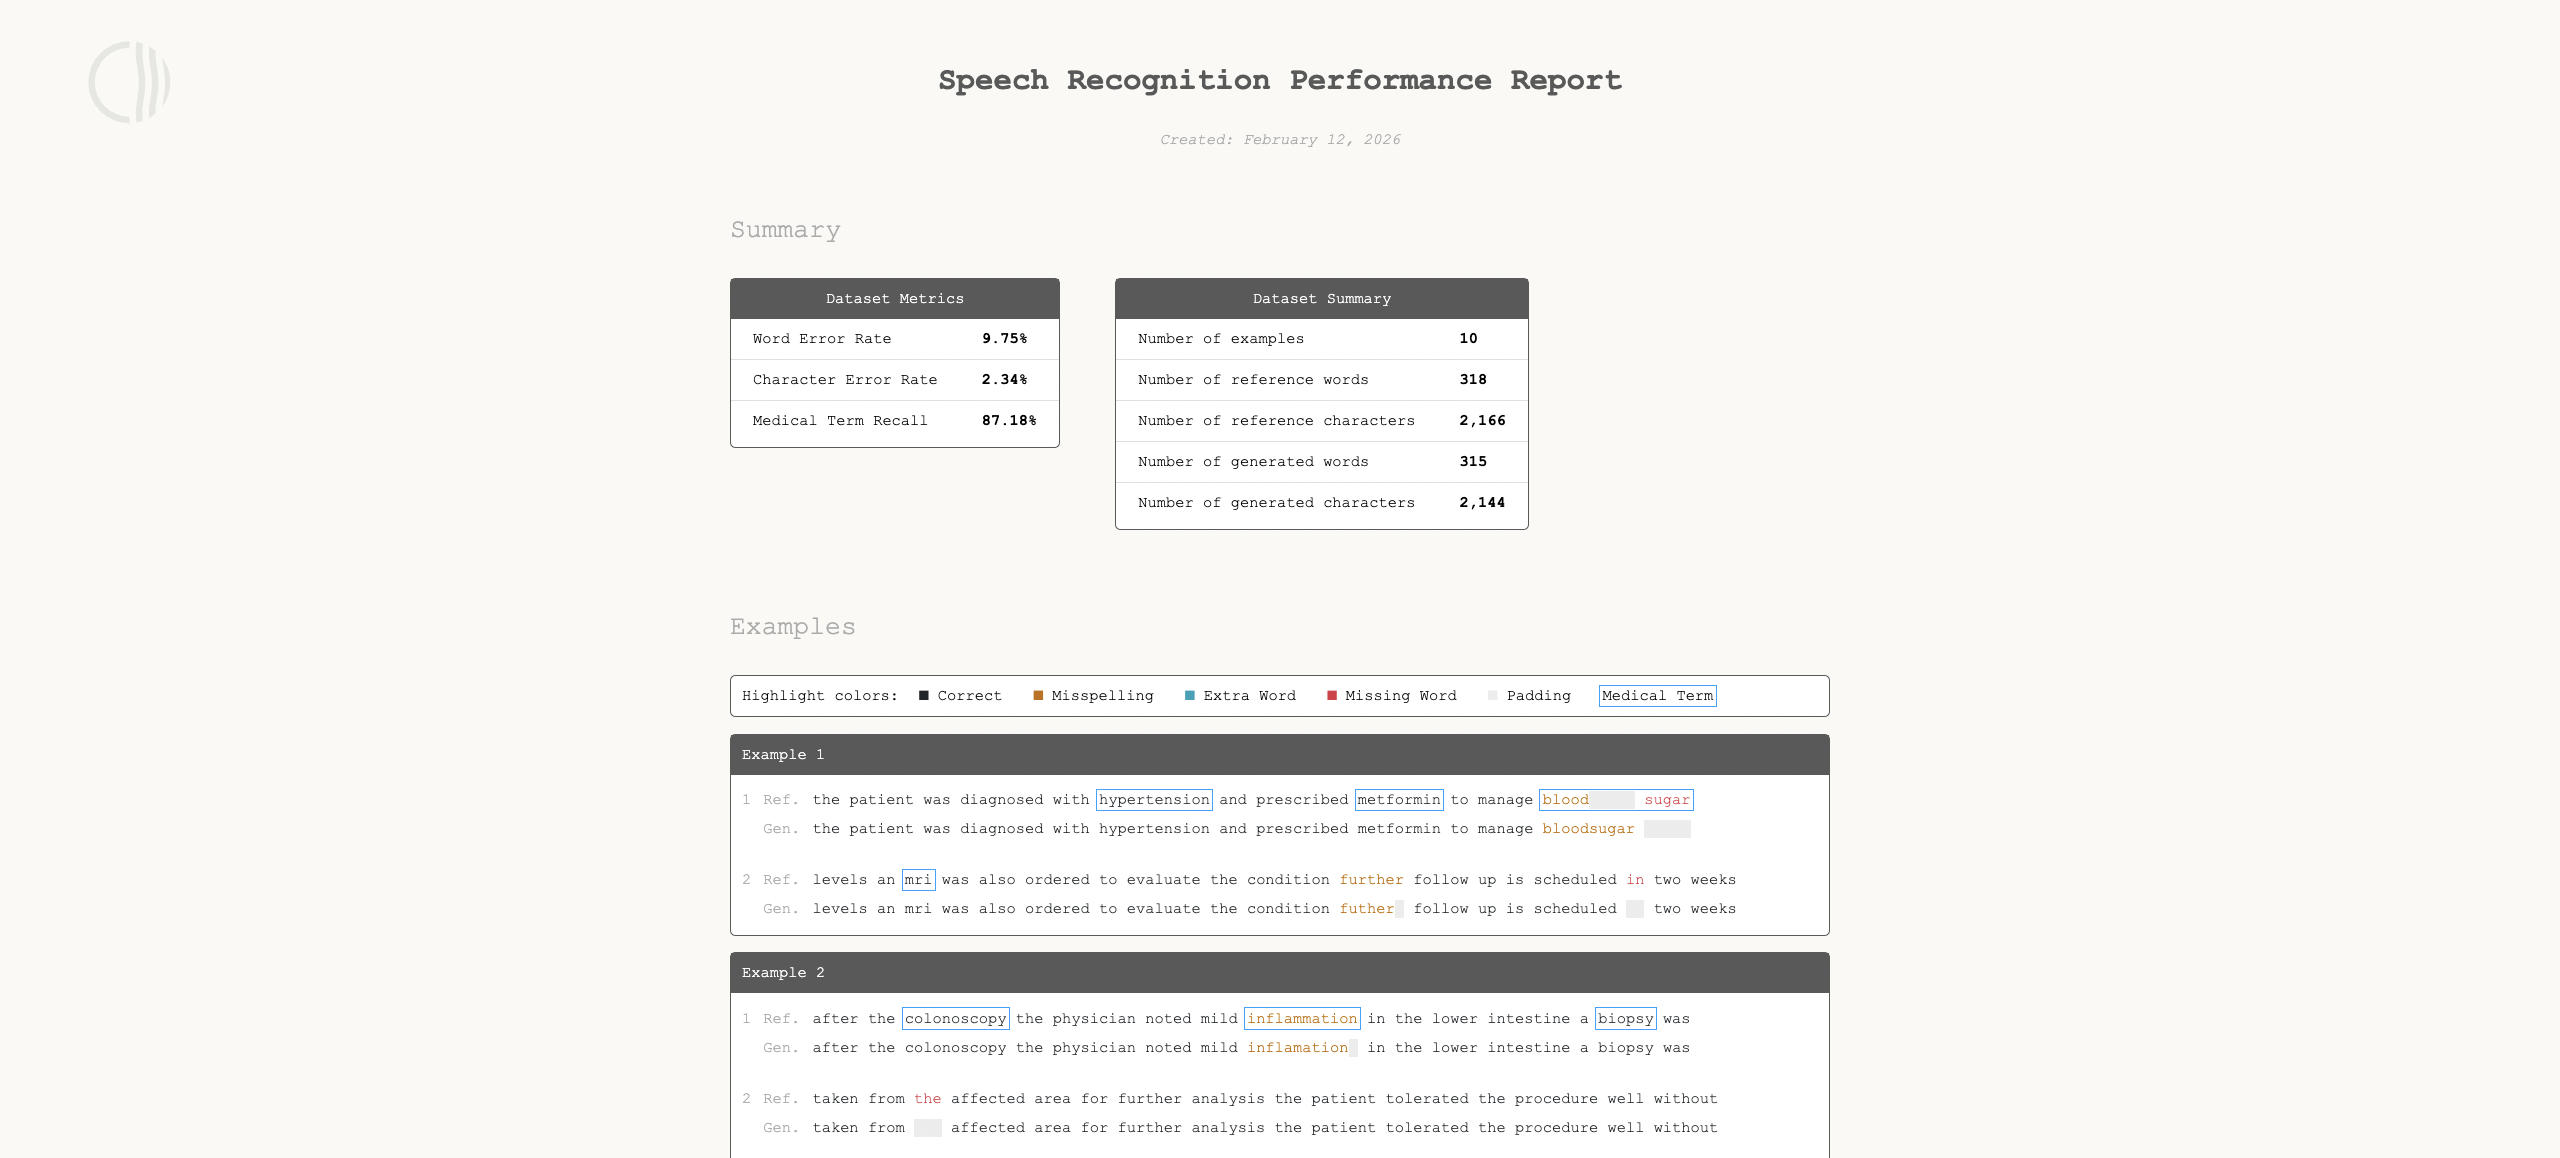
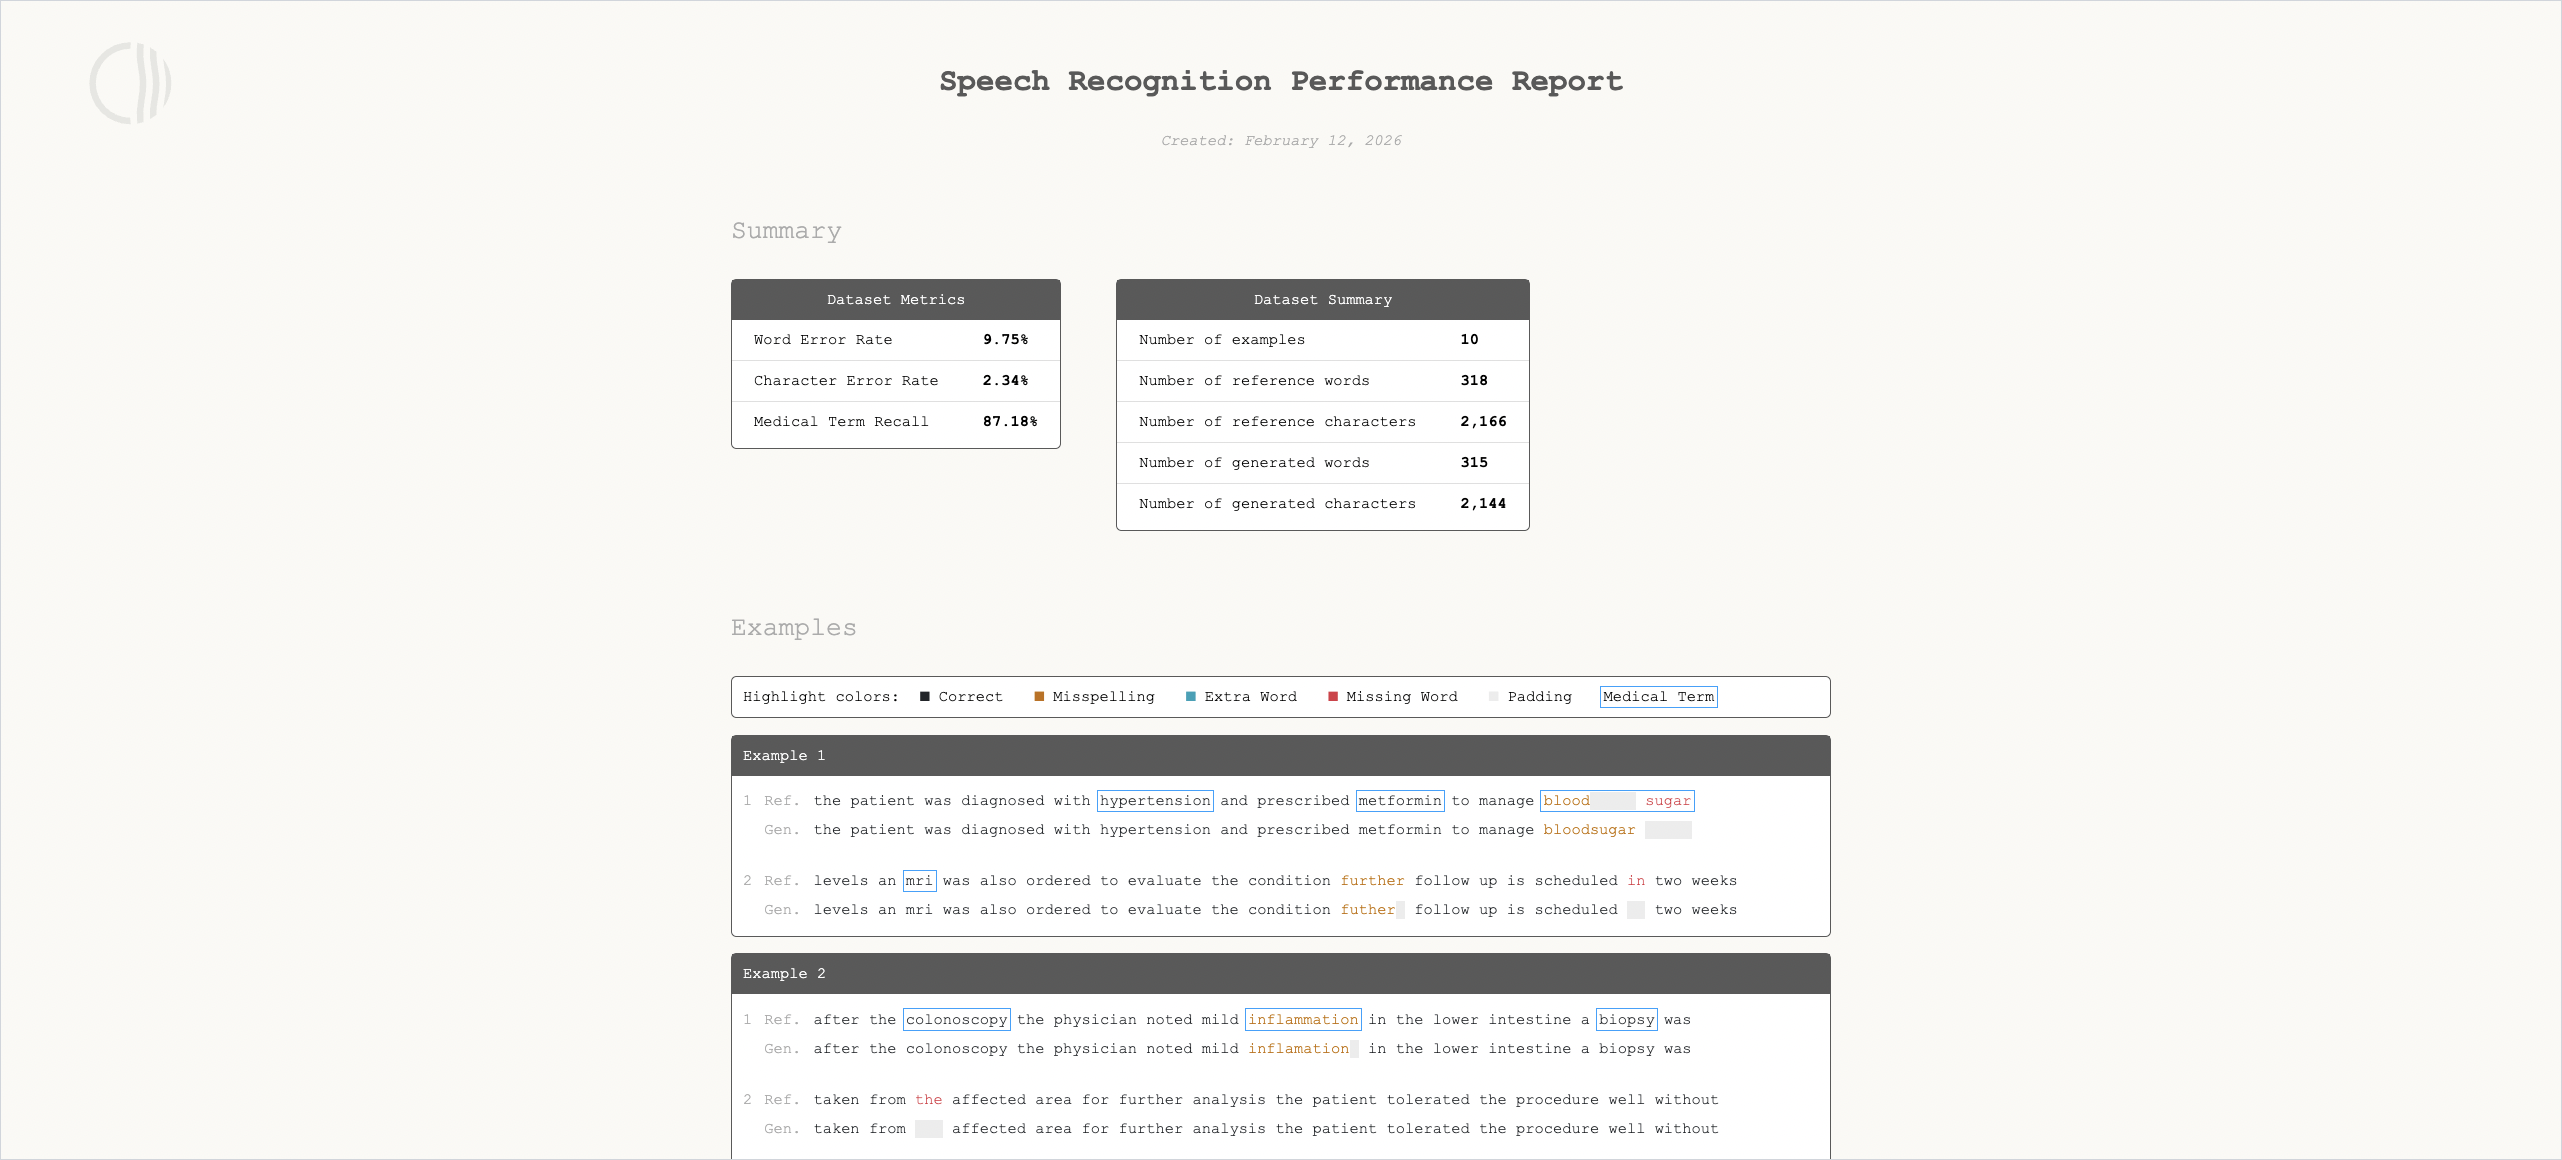
Added border directly to the image

diff --git a/README.md b/README.md
@@ -20,9 +20,9 @@
 Canal is a command-line tool that helps you measure how well a speech-recognition model is performing. Give it a CSV with the correct transcripts alongside the model-generated output, and it produces a self-contained HTML report with overall accuracy metrics and a word-by-word comparison so you can see exactly where the model gets things right — and where it doesn't.
 
 <br>
-<p align="center">
-  <img src=".github/assets/report_preview.png" alt="Report Preview" width="100%" style="border: 1px solid black;">
-</p>
+
+<img src=".github/assets/report_preview.png" alt="Report Preview" width="100%">
+
 <br>
 
 ## Installation
